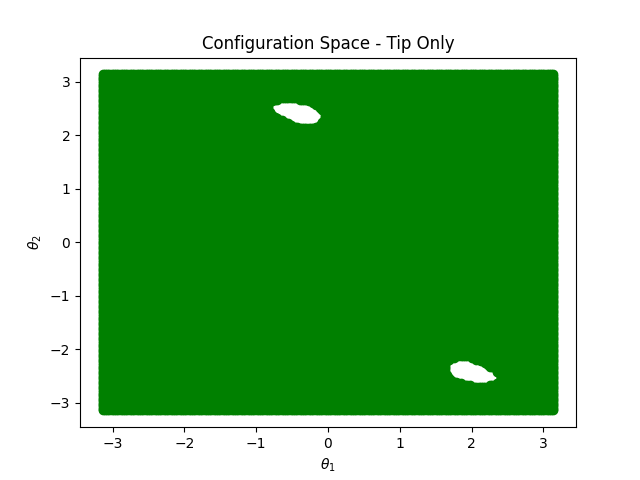
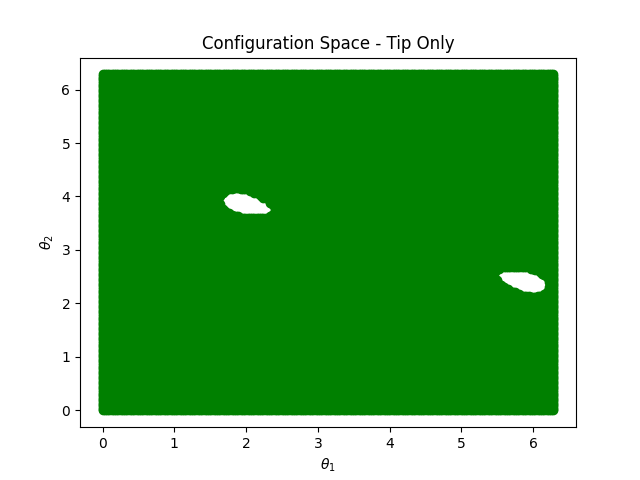
update code and plots by changing range to 0 to 2pi

diff --git a/HW5/hw5_q3f.py b/HW5/hw5_q3f.py
@@ -1,11 +1,9 @@
 # Imports
 import numpy as np
 import matplotlib.pyplot as plt
-from scipy.integrate import solve_ivp
-from control import lqr
 
-theta1 = np.linspace(-np.pi, np.pi, 200)
-theta2 = np.linspace(-np.pi, np.pi, 200)
+theta1 = np.linspace(0, 2*np.pi, 200)
+theta2 = np.linspace(0, 2*np.pi, 200)
 l1 = l2 = 1
 r = 0.25
 p0 = np.array([0.5, 0.5]).reshape(2, 1)
@@ -20,7 +18,6 @@ for i in theta1:
 cspace = np.array([cspace])
 k = cspace.shape[1]
 cspace_plot = cspace.reshape(k, 2)
-print(cspace_plot.shape)
 fig = plt.figure()
 ax = fig.add_subplot(111)
 plt.scatter(cspace_plot[:, 0], cspace_plot[:, 1], c='g')

diff --git a/HW5/hw5_q3g.py b/HW5/hw5_q3g.py
@@ -1,8 +1,6 @@
 # Imports
 import numpy as np
 import matplotlib.pyplot as plt
-from scipy.integrate import solve_ivp
-from control import lqr
 
 ''' Link 1 '''
 S1 = np.array([0, 0]).reshape(2, 1)
@@ -12,8 +10,8 @@ A1 = p0 - S1
 ''' Link 2 '''
 S2 = np.array([0, 0]).reshape(2, 1)
 
-theta1 = np.linspace(-np.pi, np.pi, 300)
-theta2 = np.linspace(-np.pi, np.pi, 300)
+theta1 = np.linspace(0, 2 * np.pi, 300)
+theta2 = np.linspace(0, 2 * np.pi, 300)
 l1 = l2 = 1
 r = 0.25
 p0 = np.array([0.5, 0.5]).reshape(2, 1)
